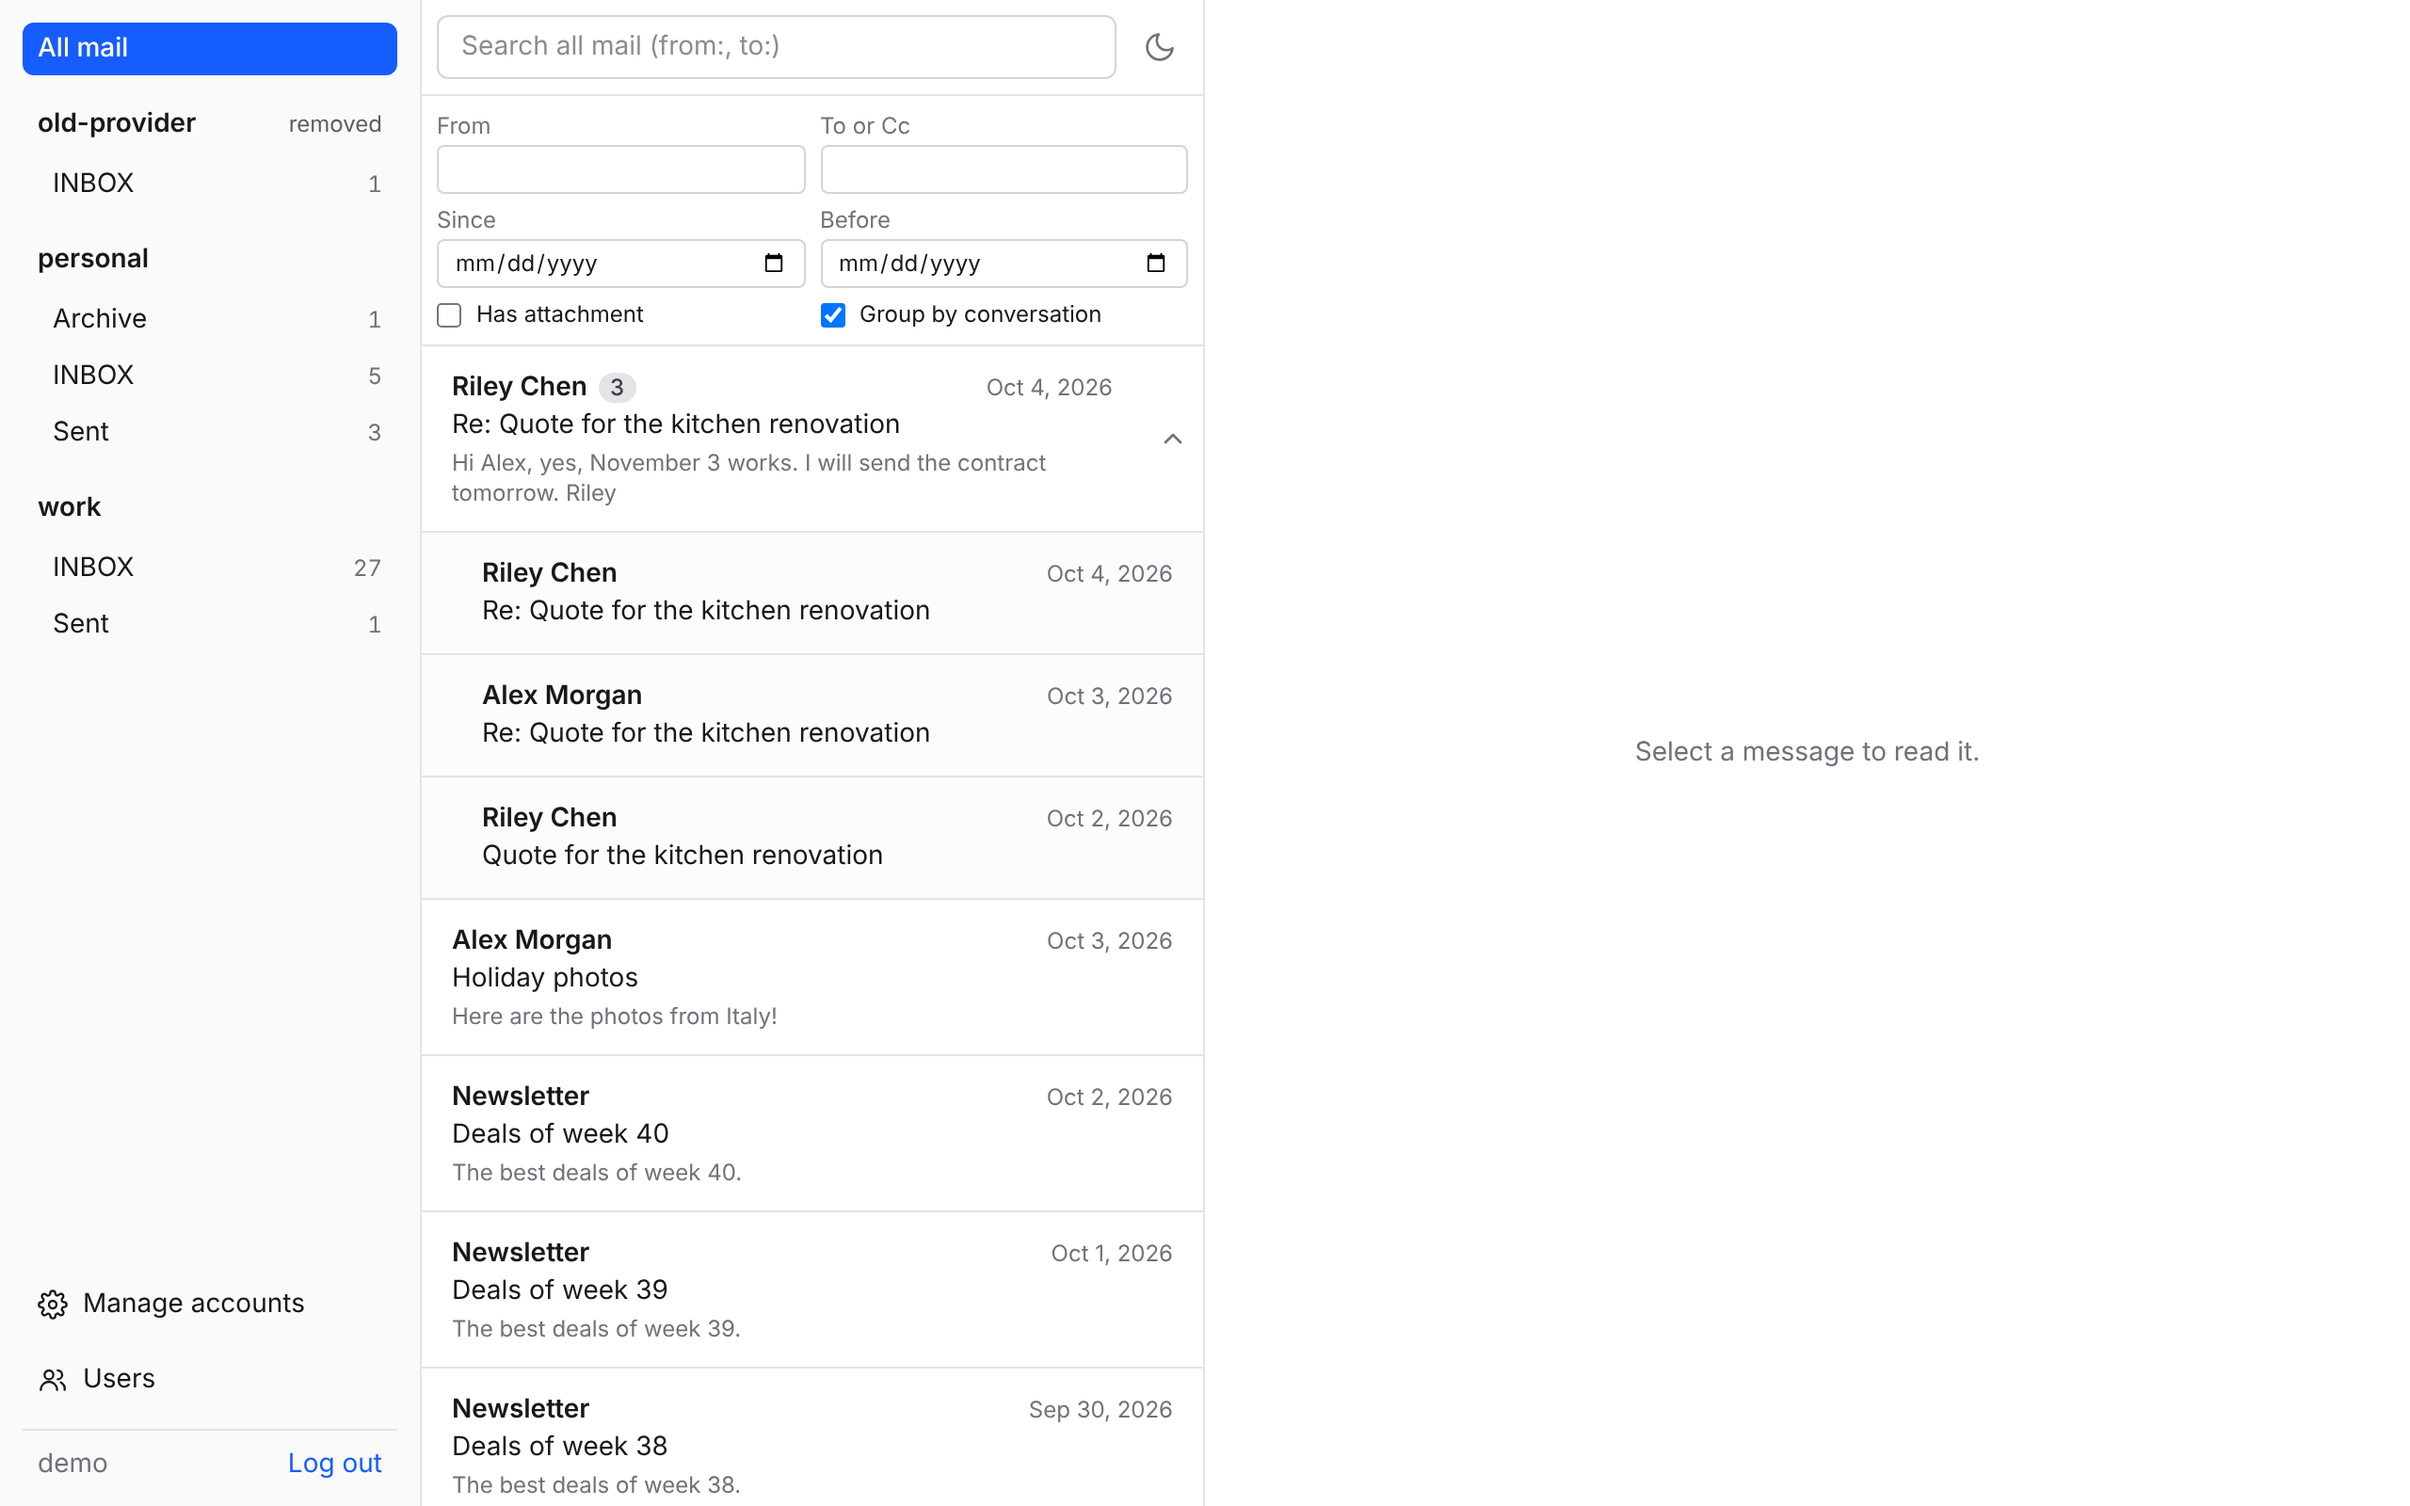
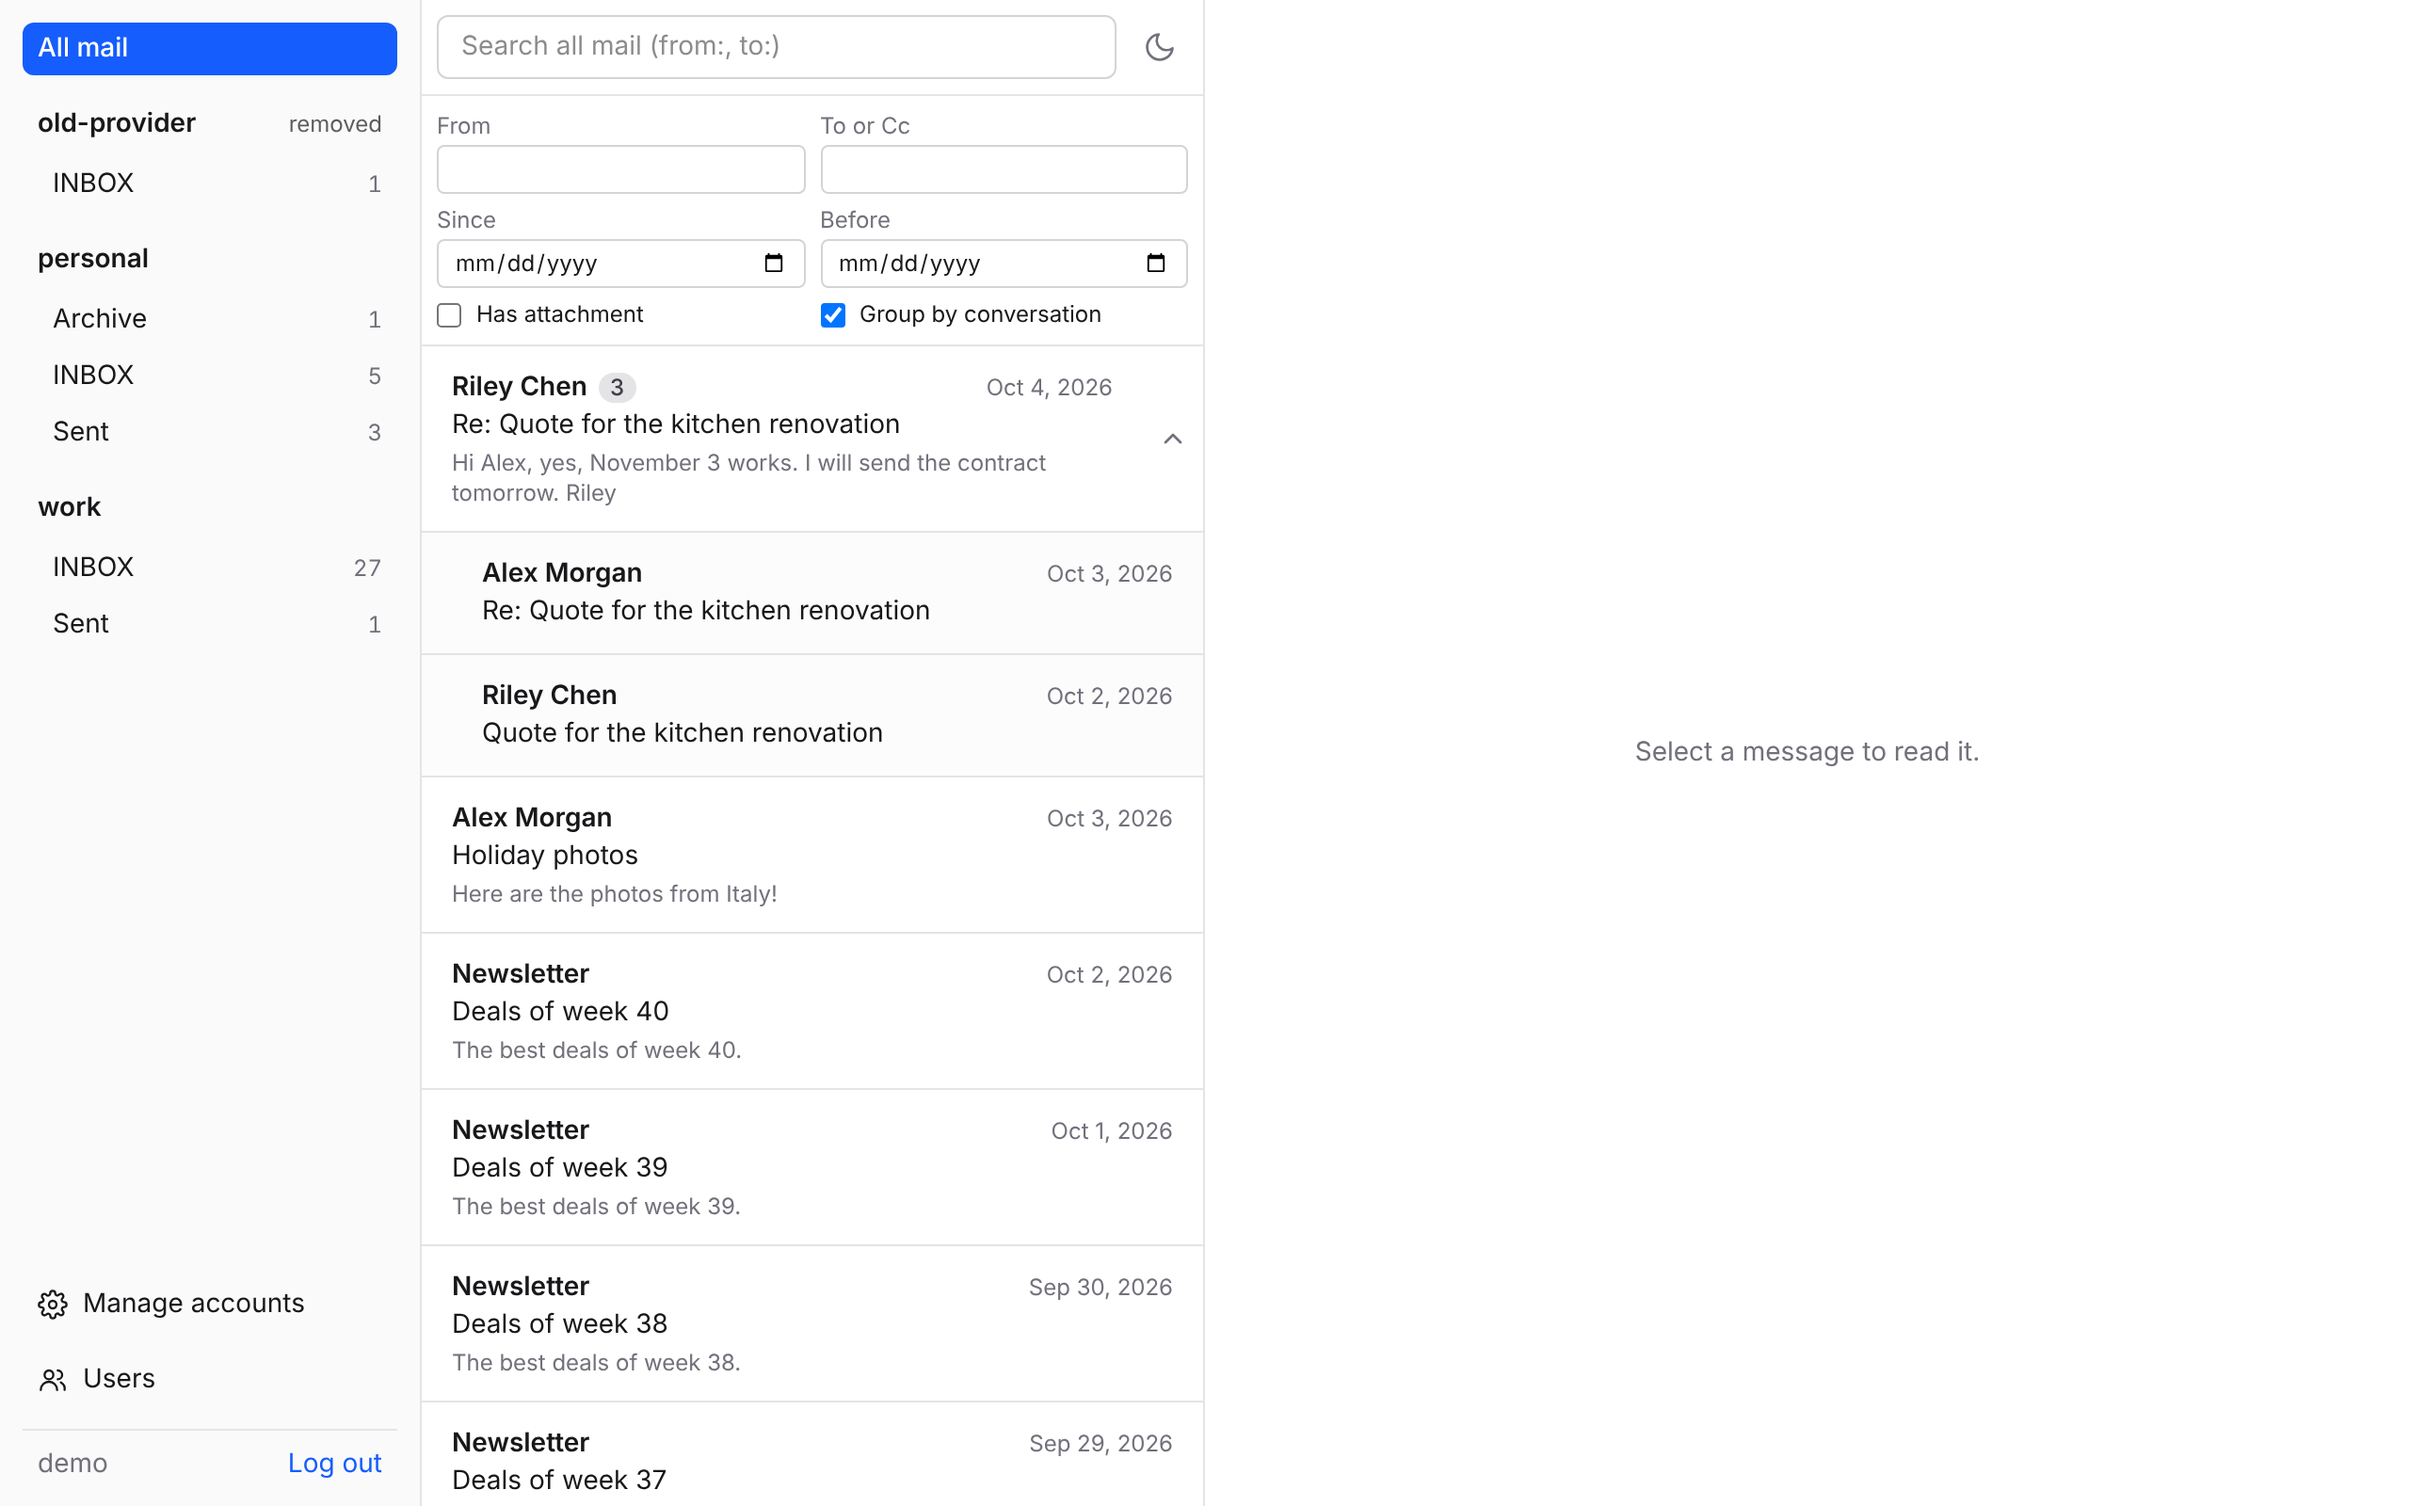
Reset the index version on rollback and list each message once
Rolling back the conversation migration left rows at index version 3,
so after applying it again reindex skipped them and their conversation
fields stayed empty. The down migration now sets them back to 2; it
touches only index_version, so the full-text column is not recomputed.

Expanding a grouped row listed its newest message again below the row.
The expansion now shows only the earlier messages.

Claude-Session: https://claude.ai/code/session_01SSB2AY2ytcmuRmttdSx15E

diff --git a/web/src/MessageList.tsx b/web/src/MessageList.tsx
@@ -174,8 +174,8 @@ function ThreadRow({ m, filter, selected, open }: { m: MessageSummary; filter: F
           type="button"
           aria-expanded={expanded}
           aria-controls={id}
-          aria-label={expanded ? t.hideConversation : t.showConversation(count)}
-          title={expanded ? t.hideConversation : t.showConversation(count)}
+          aria-label={expanded ? t.hideConversation : t.showConversation(count - 1)}
+          title={expanded ? t.hideConversation : t.showConversation(count - 1)}
           className="shrink-0 border-b border-zinc-200 px-2 text-zinc-500 hover:bg-zinc-100 hover:text-zinc-800 dark:border-zinc-800 dark:hover:bg-zinc-800 dark:hover:text-zinc-100"
           onClick={() => setExpanded(!expanded)}
         >
@@ -184,7 +184,9 @@ function ThreadRow({ m, filter, selected, open }: { m: MessageSummary; filter: F
           </svg>
         </button>
       </div>
-      {expanded && <ThreadMembers id={id} filter={{ ...filter, group: false, thread: m.thread }} count={count} selected={selected} open={open} />}
+      {expanded && (
+        <ThreadMembers id={id} filter={{ ...filter, group: false, thread: m.thread }} newest={m.id} count={count} selected={selected} open={open} />
+      )}
     </>
   );
 }
@@ -192,22 +194,37 @@ function ThreadRow({ m, filter, selected, open }: { m: MessageSummary; filter: F
 /** At most this many messages of an expanded conversation (the API's page limit). */
 const maxMembers = 200;
 
-function ThreadMembers({ id, filter, count, selected, open }: { id: string; filter: Filter; count: number; selected: string; open: (id: string) => void }) {
+/** The messages of an expanded conversation without its newest one, which the row above shows. */
+export function earlierMembers(members: MessageSummary[], newest: string): MessageSummary[] {
+  return members.filter((m) => m.id !== newest);
+}
+
+interface ThreadMembersProps {
+  id: string;
+  filter: Filter;
+  /** The message of the grouped row. */
+  newest: string;
+  count: number;
+  selected: string;
+  open: (id: string) => void;
+}
+
+function ThreadMembers({ id, filter, newest, count, selected, open }: ThreadMembersProps) {
   const key = JSON.stringify(filter);
   const res = useAsync((signal) => listMessages(filter, null, signal, maxMembers), [key]);
+  const members = res.status === "ok" ? earlierMembers(res.data.messages, newest) : [];
+  const hidden = count - 1 - members.length;
   return (
     <ul id={id} aria-label={t.conversation} className="bg-zinc-50/60 dark:bg-zinc-900/40">
       {res.status === "loading" && <li className="py-2 pl-8 text-xs text-zinc-500">{t.loading}</li>}
       {res.status === "error" && <li className="py-2 pl-8 text-xs text-red-600">{t.loadMessagesFailed(res.error.message)}</li>}
       {res.status === "ok" &&
-        res.data.messages.map((x) => (
+        members.map((x) => (
           <li key={x.id}>
             <Row m={x} selected={selected} open={open} nested />
           </li>
         ))}
-      {res.status === "ok" && count > res.data.messages.length && (
-        <li className="py-2 pl-8 text-xs text-zinc-500">{t.moreInConversation(count - res.data.messages.length)}</li>
-      )}
+      {res.status === "ok" && hidden > 0 && <li className="py-2 pl-8 text-xs text-zinc-500">{t.moreInConversation(hidden)}</li>}
     </ul>
   );
 }

diff --git a/web/src/i18n.ts b/web/src/i18n.ts
@@ -21,7 +21,7 @@ const en = {
   earlierNotShown: (n: number) => (n === 1 ? "1 earlier message not shown" : `${n} earlier messages not shown`),
   loadConversationFailed: (err: string) => `Could not load the conversation: ${err}`,
   inConversation: (n: number) => `${n} messages in this conversation`,
-  showConversation: (n: number) => `Show all ${n} messages`,
+  showConversation: (n: number) => (n === 1 ? "Show 1 earlier message" : `Show ${n} earlier messages`),
   hideConversation: "Hide the messages",
   moreInConversation: (n: number) => (n === 1 ? "1 more message" : `${n} more messages`),
   back: "← Back",
@@ -256,7 +256,7 @@ const de: Messages = {
   earlierNotShown: (n) => (n === 1 ? "1 ältere Nachricht nicht angezeigt" : `${n} ältere Nachrichten nicht angezeigt`),
   loadConversationFailed: (err) => `Konversation konnte nicht geladen werden: ${err}`,
   inConversation: (n) => `${n} Nachrichten in dieser Konversation`,
-  showConversation: (n) => `Alle ${n} Nachrichten anzeigen`,
+  showConversation: (n) => (n === 1 ? "1 ältere Nachricht anzeigen" : `${n} ältere Nachrichten anzeigen`),
   hideConversation: "Nachrichten ausblenden",
   moreInConversation: (n) => (n === 1 ? "1 weitere Nachricht" : `${n} weitere Nachrichten`),
   back: "← Zurück",

diff --git a/web/src/MessageList.test.ts b/web/src/MessageList.test.ts
@@ -1,0 +1,13 @@
+import { describe, expect, it } from "vitest";
+import type { MessageSummary } from "./api";
+import { earlierMembers } from "./MessageList";
+
+const msg = (id: string): MessageSummary => ({ id, size: 1, subject: id, from: "", sentAt: null, sortAt: "2026-10-01T00:00:00Z", hasAttachment: false });
+
+describe("earlierMembers", () => {
+  it("leaves out the newest message, which the grouped row shows", () => {
+    expect(earlierMembers([msg("c"), msg("b"), msg("a")], "c").map((m) => m.id)).toEqual(["b", "a"]);
+    // A newer match that arrived meanwhile stays; only the row's message goes.
+    expect(earlierMembers([msg("d"), msg("c"), msg("b")], "c").map((m) => m.id)).toEqual(["d", "b"]);
+  });
+});

diff --git a/internal/archive/reindex_test.go b/internal/archive/reindex_test.go
@@ -364,3 +364,37 @@ func TestReindexCost(t *testing.T) {
 	}
 	t.Logf("reindex of %d messages: %v (%.1f ms per message)", n, time.Since(start), float64(time.Since(start).Milliseconds())/n)
 }
+
+// Rolling the conversation migration back and applying it again leaves the
+// messages pending, so reindex fills the conversation fields again.
+func TestReindexAfterConversationRollback(t *testing.T) {
+	e := newReindexEnv(t)
+	sha := e.store(replyRaw) // current version, with conversation fields
+	var bodyBefore string
+	if err := e.conn.QueryRow(e.ctx, `SELECT body_text FROM messages WHERE sha256 = $1`, sha).Scan(&bodyBefore); err != nil {
+		t.Fatal(err)
+	}
+	if name, err := e.st.MigrateDown(e.ctx); err != nil || !strings.Contains(name, "conversations") {
+		t.Fatalf("MigrateDown = %q, %v", name, err)
+	}
+	if _, err := e.st.Migrate(e.ctx); err != nil {
+		t.Fatal(err)
+	}
+	if n := e.search(store.SearchFilter{Thread: "o@x"}); n != 0 {
+		t.Fatalf("thread o@x lists %d messages before reindex", n)
+	}
+	var version int16
+	var body string
+	if err := e.conn.QueryRow(e.ctx, `SELECT index_version, body_text FROM messages WHERE sha256 = $1`, sha).Scan(&version, &body); err != nil {
+		t.Fatal(err)
+	}
+	if version != 2 || body != bodyBefore {
+		t.Fatalf("after rollback: version %d, body %q", version, body)
+	}
+	if n := e.reindex(); n != 1 {
+		t.Fatalf("Reindex updated %d, want 1", n)
+	}
+	if n := e.search(store.SearchFilter{Thread: "o@x"}); n != 1 {
+		t.Errorf("thread o@x lists %d messages after reindex", n)
+	}
+}

diff --git a/docs/guide/web-ui.md b/docs/guide/web-ui.md
@@ -105,9 +105,9 @@ and Sent come together here, also from different accounts.
 
 "Group by conversation" in the filter row lists one row per conversation:
 its newest message, with the number of its messages as a badge. The arrow
-on the right shows all of them. With a search or filters, a row is the
-newest message that matches, the badge counts the matches, and the arrow
-lists them. The URL keeps the setting (`group=1`).
+on the right shows the earlier ones below it. With a search or filters, a
+row is the newest message that matches, the badge counts the matches, and
+the arrow lists the other matches. The URL keeps the setting (`group=1`).
 
 ![The list grouped by conversation, one conversation expanded](/screenshots/grouped.png)
 
